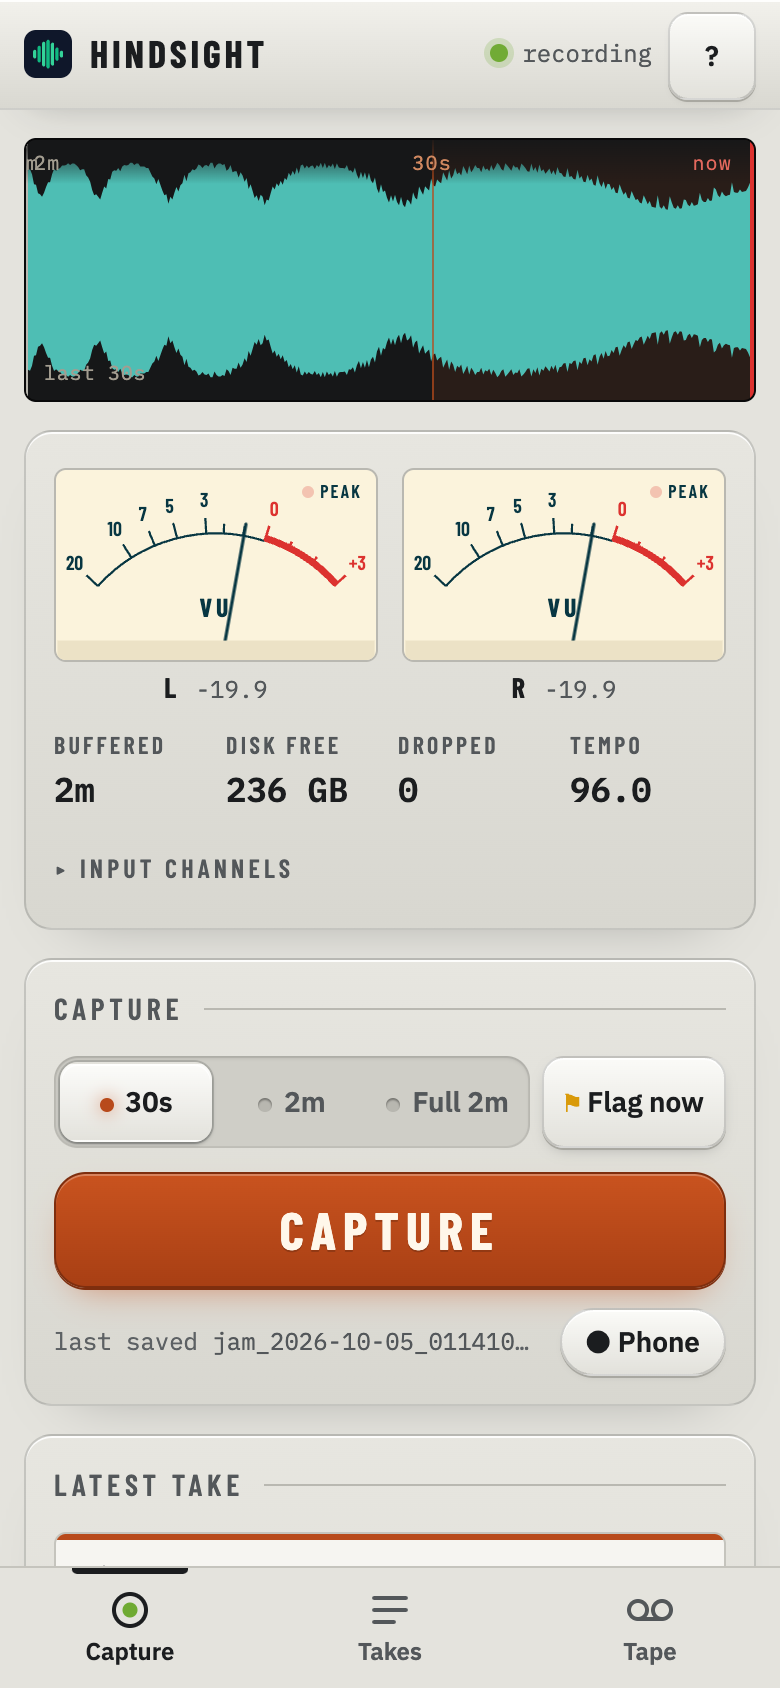
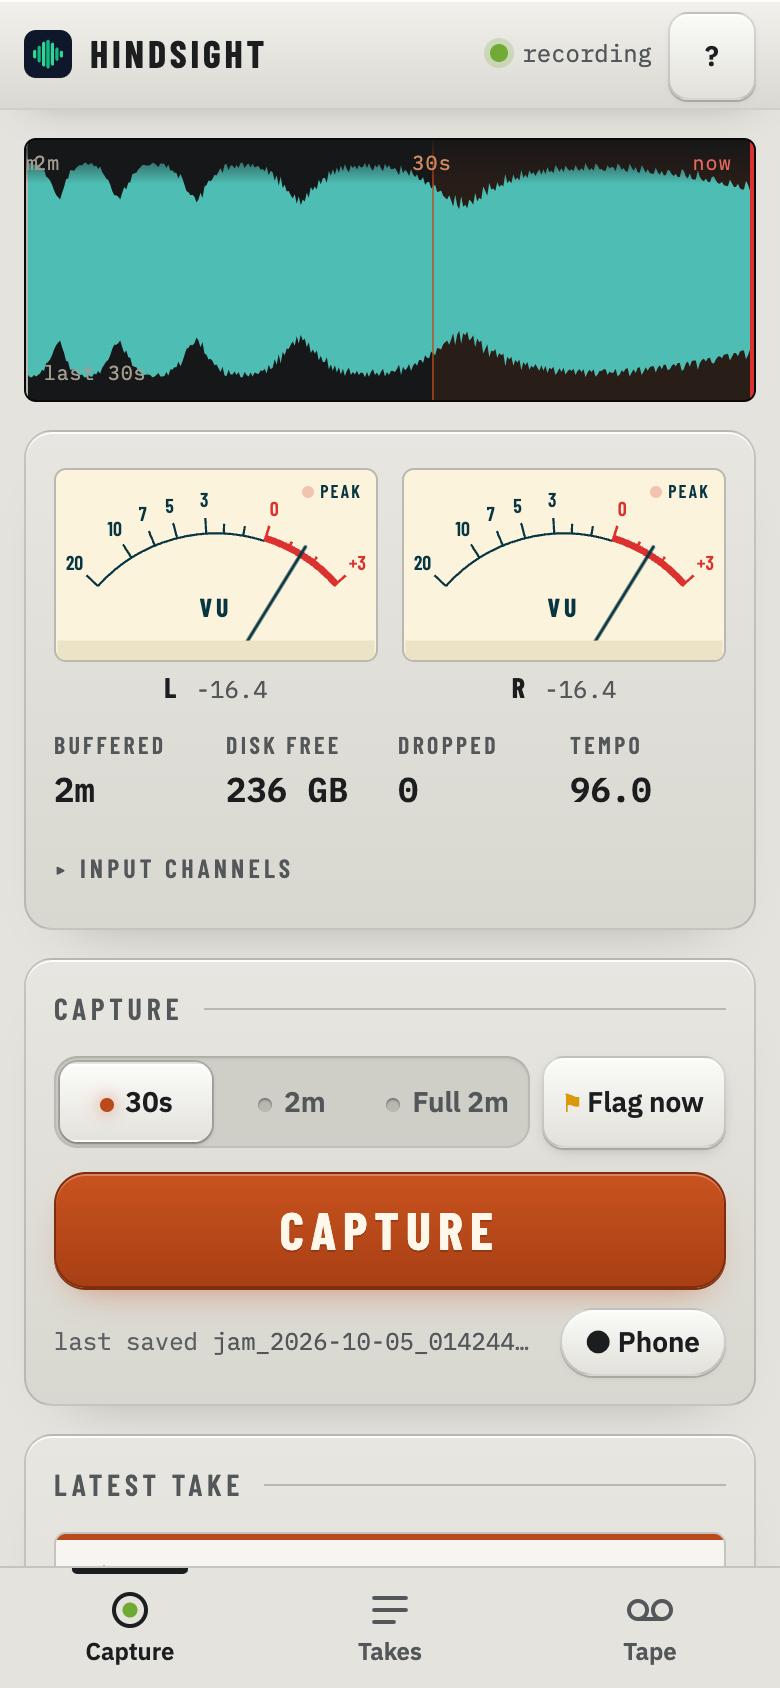
Fix review findings: the tape grid shows, fields show focus, Play sinks
- Tape lanes drew their bar lines in --well-line, the well's own dark edge;
  they use --well-rule like the take view.
- The rename and tempo fields turned their outline off on focus and their
  orange border was gone; every field now takes the focus ring.
- A take's waveform (takes list, detail, latest take, the phone notes strip)
  sits in a black window: its colours are chosen for black.
- Latched Play lost to the raised transport key on specificity and stayed up.
- Hover no longer restyles a playing, pending, armed or recording key while
  the cursor is still on it.

README screenshots retaken with the black take windows.

diff --git a/web/static/styles.css b/web/static/styles.css
@@ -883,7 +883,6 @@ body.selecting #toasts { bottom: calc(84px + env(safe-area-inset-bottom)); }
   color: var(--ink);
 }
 
-.take-name-input:focus { outline: none; }
 .take-meta {
   font-family: var(--mono); font-size: 11px; color: var(--ink-faint);
   white-space: nowrap; flex: none;
@@ -919,11 +918,12 @@ body.selecting #toasts { bottom: calc(84px + env(safe-area-inset-bottom)); }
   font-family: var(--mono); font-size: 12px;
   color: var(--ink);
 }
-.take-bpm-input:focus { outline: none; }
 
 /* manipulation: a flag is placed with a double-tap, and without this a phone
    reads that as a request to zoom the page instead of the wave. */
 .wave { position: relative; height: 48px; margin-bottom: 9px; touch-action: manipulation; }
+/* A take's waveform is a black window, on its label as on the tape. */
+.wave:not(.pending) { background: var(--well); border-radius: 8px; box-shadow: inset 0 1px 3px var(--sh-strong); }
 .row-wave { position: absolute; inset: 0; width: 100%; height: 100%; display: block; cursor: pointer; }
 .wave.pending {
   display: grid; place-items: center;
@@ -1410,7 +1410,7 @@ body.help-mode .help-btn { background: var(--accent); color: var(--on-accent); b
 }
 .lane-show-all { font-size: 12px; align-self: flex-start; padding: 4px 2px; }
 /* The phone's notes view keeps a strip of the waveform on top. */
-.notes-strip { display: none; width: 100%; height: 28px; background: var(--panel); flex: none; }
+.notes-strip { display: none; width: 100%; height: 28px; background: var(--well); flex: none; }
 
 /* ---------- rising notes ---------- */
 .notes-pane {
@@ -1862,7 +1862,7 @@ main.shelf-main { display: flex; flex-direction: column; max-width: 780px; gap: 
   flex: 1; min-width: 0; border: 0; outline: none; background: transparent;
   color: var(--ink); font: 16px var(--font);
 }
-.shelf-search:focus-within { border-color: var(--focus); }
+.shelf-search:focus-within { border-color: var(--focus); box-shadow: inset 0 1px 3px var(--field-sh), 0 0 0 1px var(--focus); }
 .shelf-sort-row { display: flex; align-items: center; justify-content: space-between; gap: 10px; flex-wrap: wrap; }
 .shelf-toggles { display: flex; flex-wrap: wrap; gap: 6px; }
 /* Browsing, not playing: flat toggles, the chosen ones filled in ink. */
@@ -2153,7 +2153,7 @@ a.chip, a.icon-btn { text-decoration: none; }
 }
 .seg button:active, .mark-btn:active, .icon-btn.play:active,
 .tb-row.transport .icon-btn:active, .tape-toolbar .tb-row.catch .icon-btn:active, .tape-toolbar .tb-row.edit .icon-btn:active,
-.tb-row.transport .icon-btn[aria-pressed="true"], .tb-play.playing {
+.tb-row.transport .icon-btn[aria-pressed="true"], .tb-row.transport .tb-play.playing {
   background: linear-gradient(180deg, var(--key-down), var(--key-lo));
   border-color: var(--edge-strong);
   box-shadow: inset 0 2px 4px var(--sh), inset 0 0 0 1px var(--edge-soft);
@@ -2256,11 +2256,15 @@ input, select, textarea { color-scheme: inherit; }
   border: 1px solid var(--edge-soft); border-radius: 10px;
   box-shadow: inset 0 1px 3px var(--field-sh);
 }
+.take-name-input:focus-visible, .take-bpm-input:focus-visible, .take-title-input:focus-visible, .take-sub-input:focus-visible,
+.tape-tempo-row input:focus-visible, .phone-field select:focus-visible, #flag-sheet input:focus-visible, .take-flag-edit input:focus-visible {
+  outline: 2px solid var(--focus); outline-offset: 1px;
+}
 
 /* ---------- hover: only where there is a pointer to hover with ---------- */
 @media (hover: hover) {
-  .icon-btn:not(.primary):not(.phone-rec):not([aria-pressed="true"]):not(:disabled):hover, .chip:not([aria-pressed="true"]):not(:disabled):hover,
-  .nudge:not(:disabled):hover, .phone-btn:hover, .mark-btn:not([disabled]):hover {
+  .icon-btn:not(.primary):not(.phone-rec):not(.playing):not(.pending):not(.armed):not(.recording):not([aria-pressed="true"]):not(:disabled):hover, .chip:not([aria-pressed="true"]):not(:disabled):hover,
+  .nudge:not(:disabled):hover, .phone-btn:not(.recording):hover, .mark-btn:not([disabled]):hover {
     border-color: var(--edge-strong);
     box-shadow: inset 0 1px 0 var(--hl), 0 1px 0 var(--key-edge), 0 8px 16px -8px var(--sh-strong);
   }
@@ -2270,8 +2274,8 @@ input, select, textarea { color-scheme: inherit; }
 }
 /* The lift on hover is motion, so it waits for permission. */
 @media (hover: hover) and (prefers-reduced-motion: no-preference) {
-  .icon-btn:not(.primary):not(.phone-rec):not([aria-pressed="true"]):not(:disabled):hover, .chip:not([aria-pressed="true"]):not(:disabled):hover,
-  .nudge:not(:disabled):hover, .phone-btn:hover, .mark-btn:not([disabled]):hover,
+  .icon-btn:not(.primary):not(.phone-rec):not(.playing):not(.pending):not(.armed):not(.recording):not([aria-pressed="true"]):not(:disabled):hover, .chip:not([aria-pressed="true"]):not(:disabled):hover,
+  .nudge:not(:disabled):hover, .phone-btn:not(.recording):hover, .mark-btn:not([disabled]):hover,
   .capture-btn:not([disabled]):hover, .icon-btn.primary:not(:disabled):hover { transform: translateY(-1px); }
 }
 

diff --git a/web/static/lib/styles.test.js b/web/static/lib/styles.test.js
@@ -110,6 +110,63 @@ for (const [scheme, t] of [['light', light], ['dark', dark]]) {
   });
 }
 
+// Selector specificity as [ids, classes, types]; enough for these rules.
+function specificity(sel) {
+  const s = sel.replace(/::[a-z-]+/g, '').replace(/:not\(([^)]*)\)/g, ' $1');
+  const ids = (s.match(/#[\w-]+/g) || []).length;
+  const classes = (s.match(/\.[\w-]+|\[[^\]]+\]|:[a-z-]+/g) || []).length;
+  const types = (s.replace(/#[\w-]+|\.[\w-]+|\[[^\]]+\]|:[a-z-]+/g, ' ').match(/[a-z][\w-]*/gi) || []).length;
+  return [ids, classes, types];
+}
+const outranks = (a, b) => a[0] - b[0] || a[1] - b[1] || a[2] - b[2];
+// Every rule as { sel: [parts], body }, top level or inside @media.
+const bare = css.replace(/\/\*[\s\S]*?\*\//g, '');
+const RULES = [...bare.matchAll(/([^{}@;]+)\{([^{}]*)\}/g)]
+  .map((m) => ({ sel: m[1].split(',').map((x) => x.trim()).filter(Boolean), body: m[2] }));
+
+test('a latched transport key sits as low as the raised key rule it overrides', () => {
+  const raised = specificity('.tb-row.transport .icon-btn');
+  const pressed = RULES.find((r) => r.sel.includes('.tb-row.transport .icon-btn[aria-pressed="true"]'));
+  assert.ok(pressed);
+  for (const part of pressed.sel.filter((x) => x.includes('.tb-')))
+    assert.ok(outranks(specificity(part), raised) >= 0, `${part} loses to .tb-row.transport .icon-btn`);
+});
+
+test('hovering a key never hides its state', () => {
+  const hoverBlocks = [...css.matchAll(/@media \(hover: hover\)[^{]*/g)].map((m) => block(m.index)).join('\n');
+  const lifts = [...hoverBlocks.matchAll(/([^{}]+)\{([^{}]*)\}/g)]
+    .filter((m) => /border-color|box-shadow|transform/.test(m[2]))
+    .flatMap((m) => m[1].split(',').map((x) => x.trim()));
+  for (const part of lifts.filter((x) => x.startsWith('.icon-btn:')))
+    for (const state of ['.playing', '.pending', '.armed', '.recording'])
+      assert.ok(part.includes(`:not(${state})`), `${part} restyles a ${state} key under the cursor`);
+  for (const part of lifts.filter((x) => x.startsWith('.phone-btn')))
+    assert.ok(part.includes(':not(.recording)'), `${part} restyles a recording phone key under the cursor`);
+});
+
+// A field you are typing into says so: no field turns its outline off, and
+// each has a focus ring.
+test('every text field shows focus', () => {
+  const at = bare.indexOf('.take-name-input, .take-bpm-input, .take-title-input');
+  const fields = bare.slice(bare.lastIndexOf('}', at) + 1, bare.indexOf('{', at)).split(',').map((x) => x.trim());
+  for (const r of RULES.filter((r) => r.sel.some((x) => /:focus/.test(x)) && /outline:\s*none/.test(r.body)))
+    for (const f of fields)
+      assert.ok(!r.sel.some((x) => x.startsWith(f + ':focus')), `${f} turns its outline off on focus`);
+  const rings = RULES.filter((r) => /outline:\s*2px solid var\(--focus\)/.test(r.body)).flatMap((r) => r.sel);
+  for (const f of fields) assert.ok(rings.includes(`${f}:focus-visible`), `${f} has no focus ring`);
+});
+
+// Audio is drawn in black windows in both themes: the waveform colours are
+// chosen for black, and wash out on the aluminium.
+test('every waveform sits in a black window', () => {
+  for (const sel of ['.wave:not(.pending)', '.notes-strip']) {
+    const bg = RULES.filter((r) => r.sel.includes(sel) && /background:/.test(r.body))
+      .map((r) => /background:\s*([^;]+);/.exec(r.body)[1].trim());
+    assert.ok(bg.length, `no background for ${sel}`);
+    assert.equal(bg.at(-1), 'var(--well)', `${sel} is drawn on ${bg.at(-1)}`);
+  }
+});
+
 test('inputs sit on the field, not the well', () => {
   const at = css.indexOf('.take-name-input, .take-bpm-input, .take-title-input');
   assert.ok(at > 0);

diff --git a/web/static/lib/wave/inks.test.js b/web/static/lib/wave/inks.test.js
@@ -1,16 +1,17 @@
 // web/static/lib/wave/inks.test.js
 // Waveform windows are black in both themes, so canvas drawing on them uses
 // the window inks. The page inks are dark in the light theme and would vanish,
-// and so would the legend's grease colour: on black it is --grease-mark.
+// and so would the legend's grease colour (on black it is --grease-mark) and
+// the well's own edge, which is darker than the well.
 import test from 'node:test';
 import assert from 'node:assert/strict';
 import { readFileSync } from 'node:fs';
 
-const FILES = ['./view.js', './lanes.js', './overview.js', './rising.js', '../tape/page.js'];
+const FILES = ['./view.js', './lanes.js', './overview.js', './rising.js', './rowwave.js', './page.js', '../tape/page.js'];
 test('canvas code draws with window inks, not page inks', () => {
   for (const f of FILES) {
     const src = readFileSync(new URL(f, import.meta.url), 'utf8');
-    const bad = src.split('\n').filter((l) => /(col|token)\('--(ink|ink-dim|ink-faint|rule|grease)'/.test(l));
+    const bad = src.split('\n').filter((l) => /(col|token)\('--(ink|ink-dim|ink-faint|rule|grease|line|well-line|shadow)'/.test(l));
     assert.deepEqual(bad, [], `${f} still draws with page inks`);
   }
 });

diff --git a/web/static/lib/tape/page.js b/web/static/lib/tape/page.js
@@ -1046,7 +1046,7 @@ function drawLanes() {
     // Bar lines.
     for (const b of barLines(t.grid, view)) {
       const x = Math.round(xOf(b.frame, view, W));
-      ctx.fillStyle = col('--well-line', '#d3cab0');
+      ctx.fillStyle = col('--well-rule', 'rgba(242,230,200,.14)');
       ctx.fillRect(x, 0, 1, H);
     }
     // Clips, base layer first, in the track's colour; a layer over
